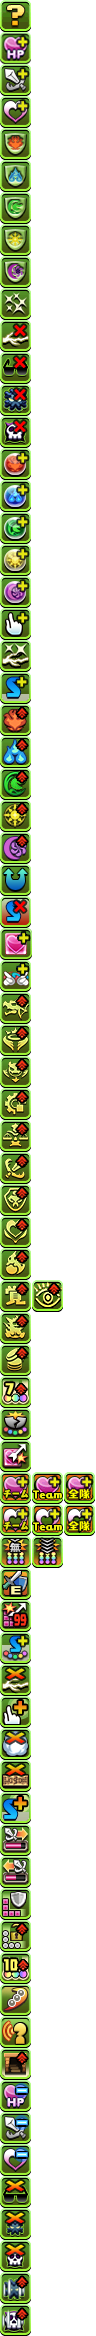
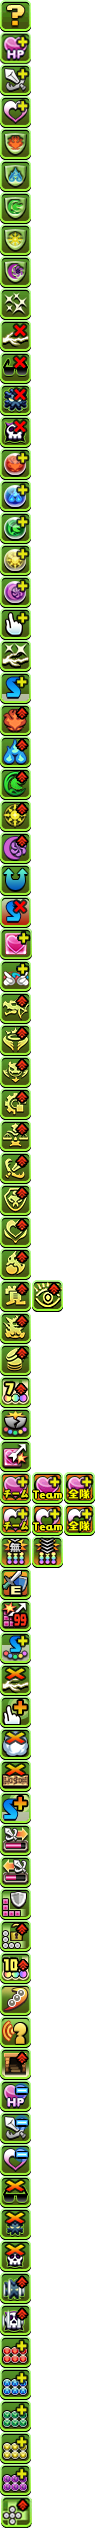
New badge and awakenings

diff --git a/src/app/data/badges.ts b/src/app/data/badges.ts
@@ -16,7 +16,8 @@ const badges = [
     { id: 14, name: 'EXP+' },
     { id: 15, name: 'Blind Resist' },
     { id: 16, name: 'Jammer Resist' },
-    { id: 17, name: 'Poison Resist' }
+    { id: 17, name: 'Poison Resist' },
+    { id: 18, name: 'Pad Pass' }
 ];
 
 export default badges;
